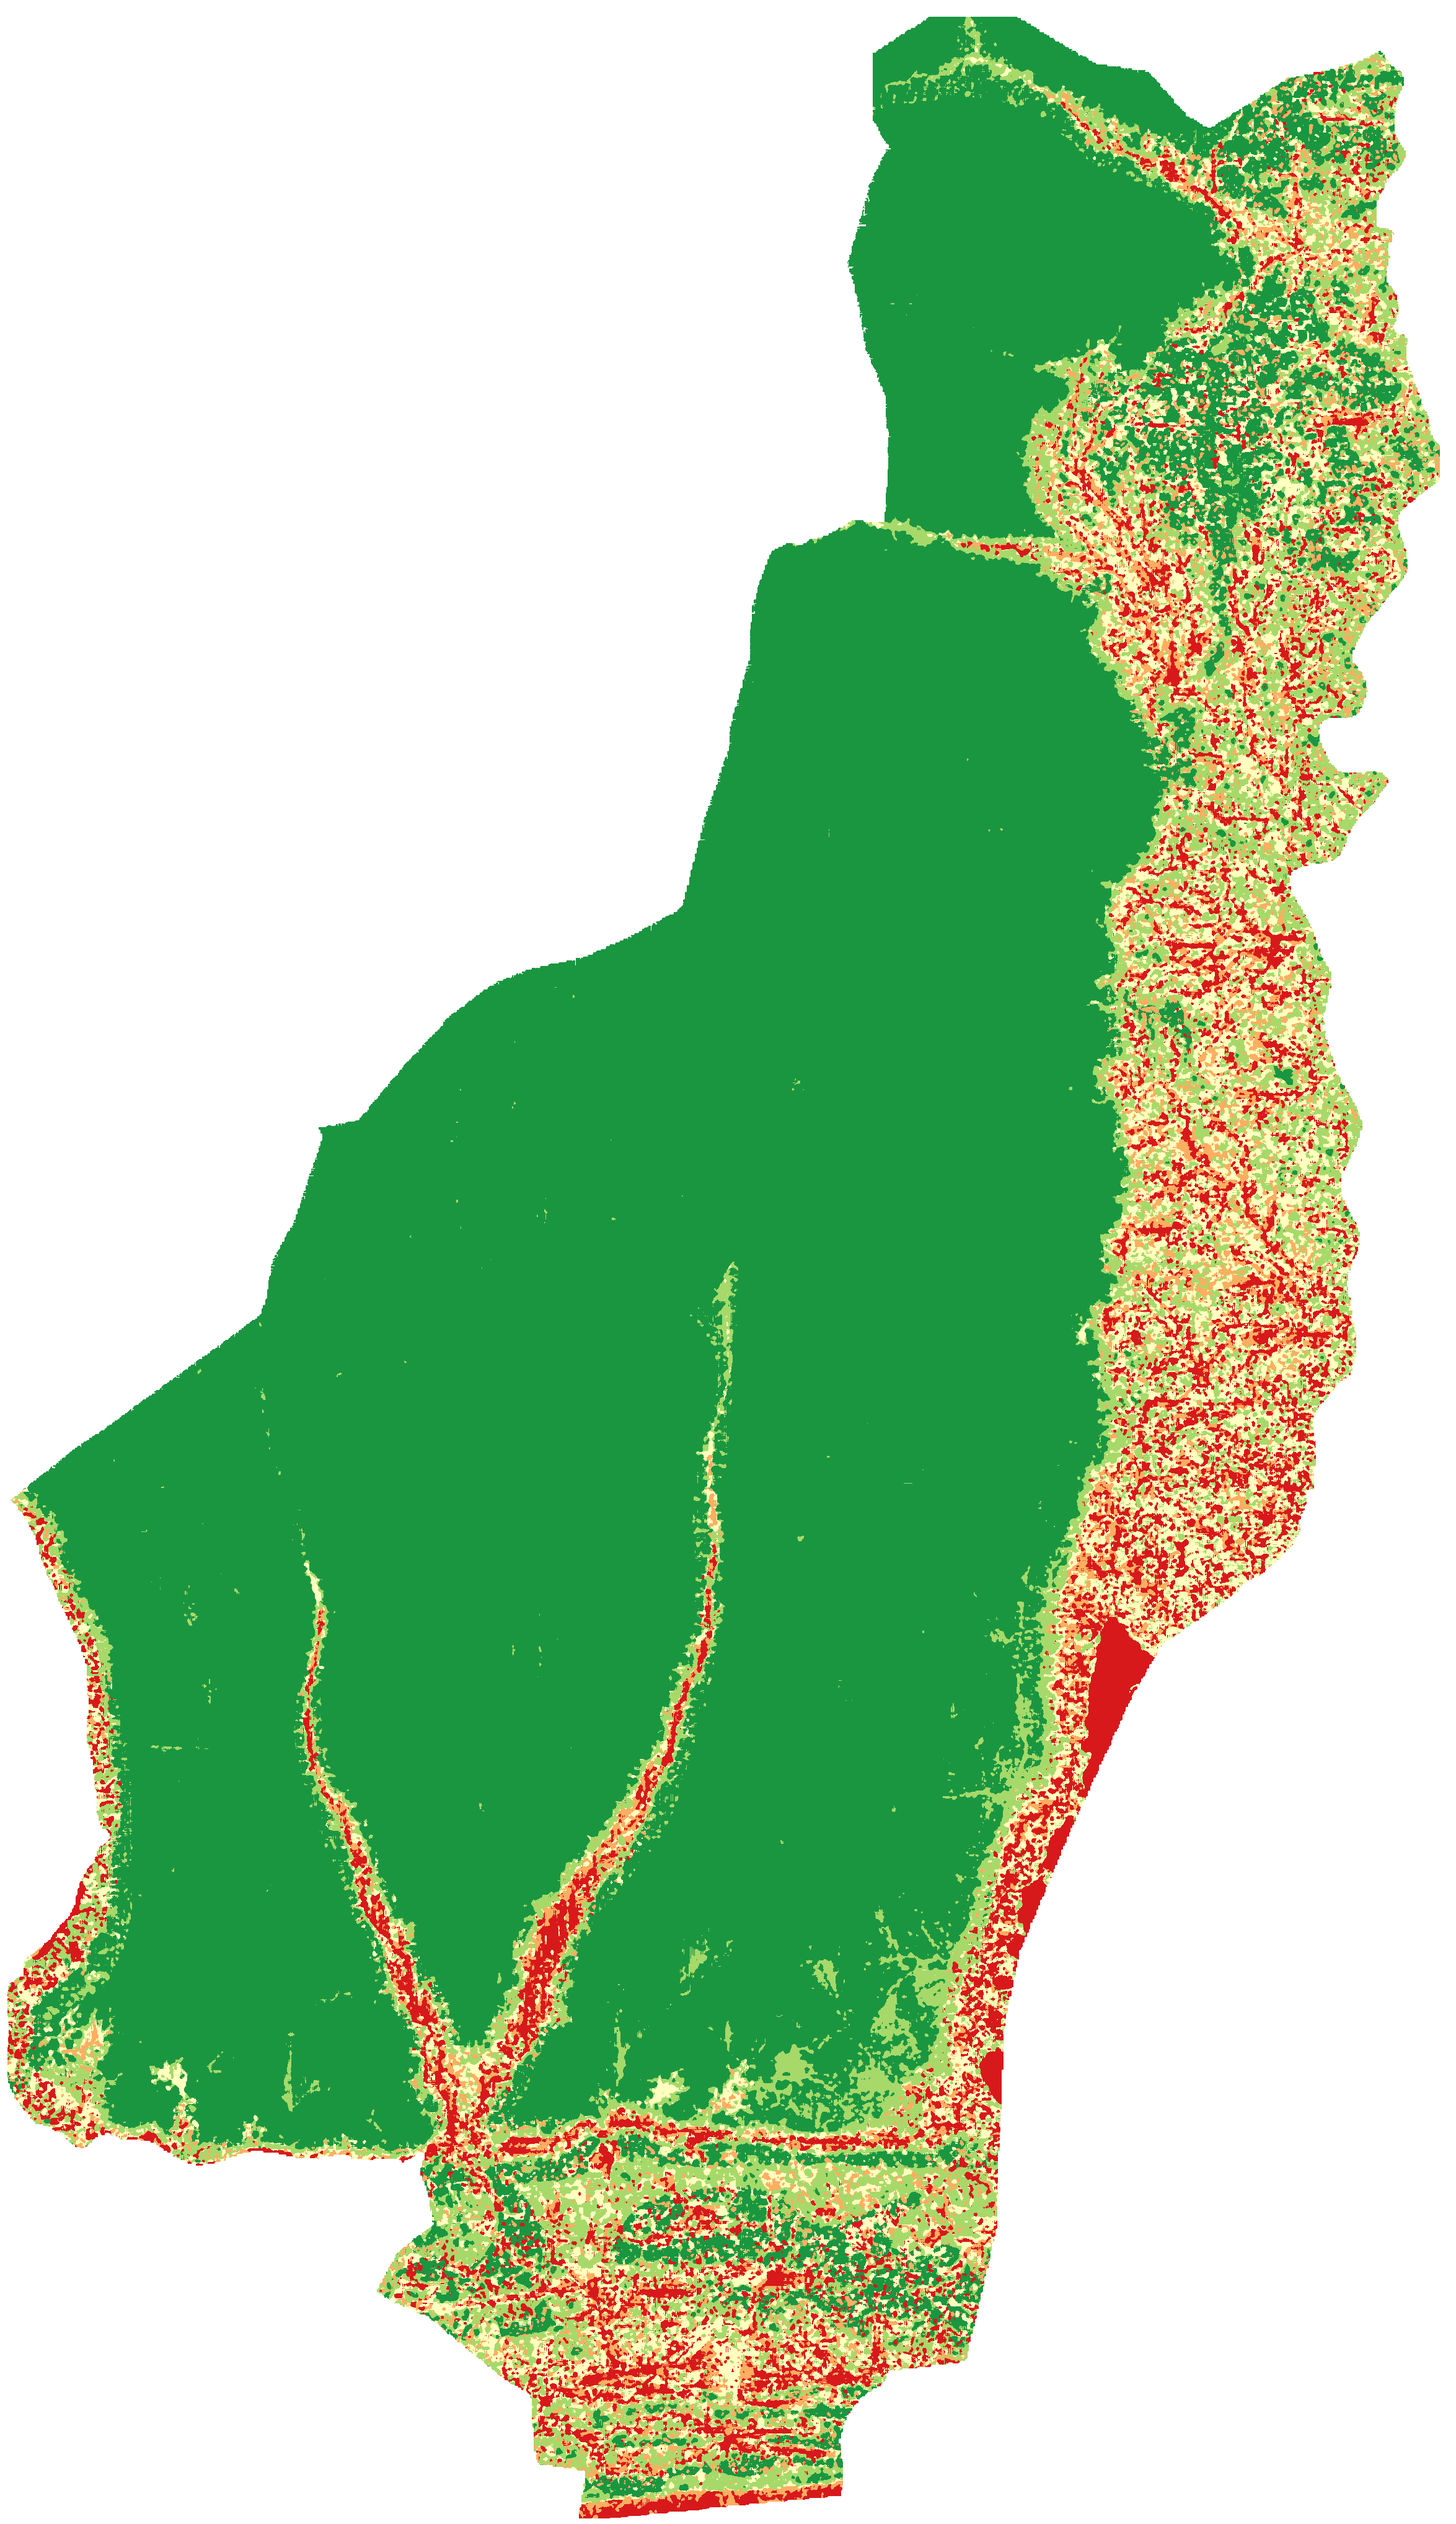
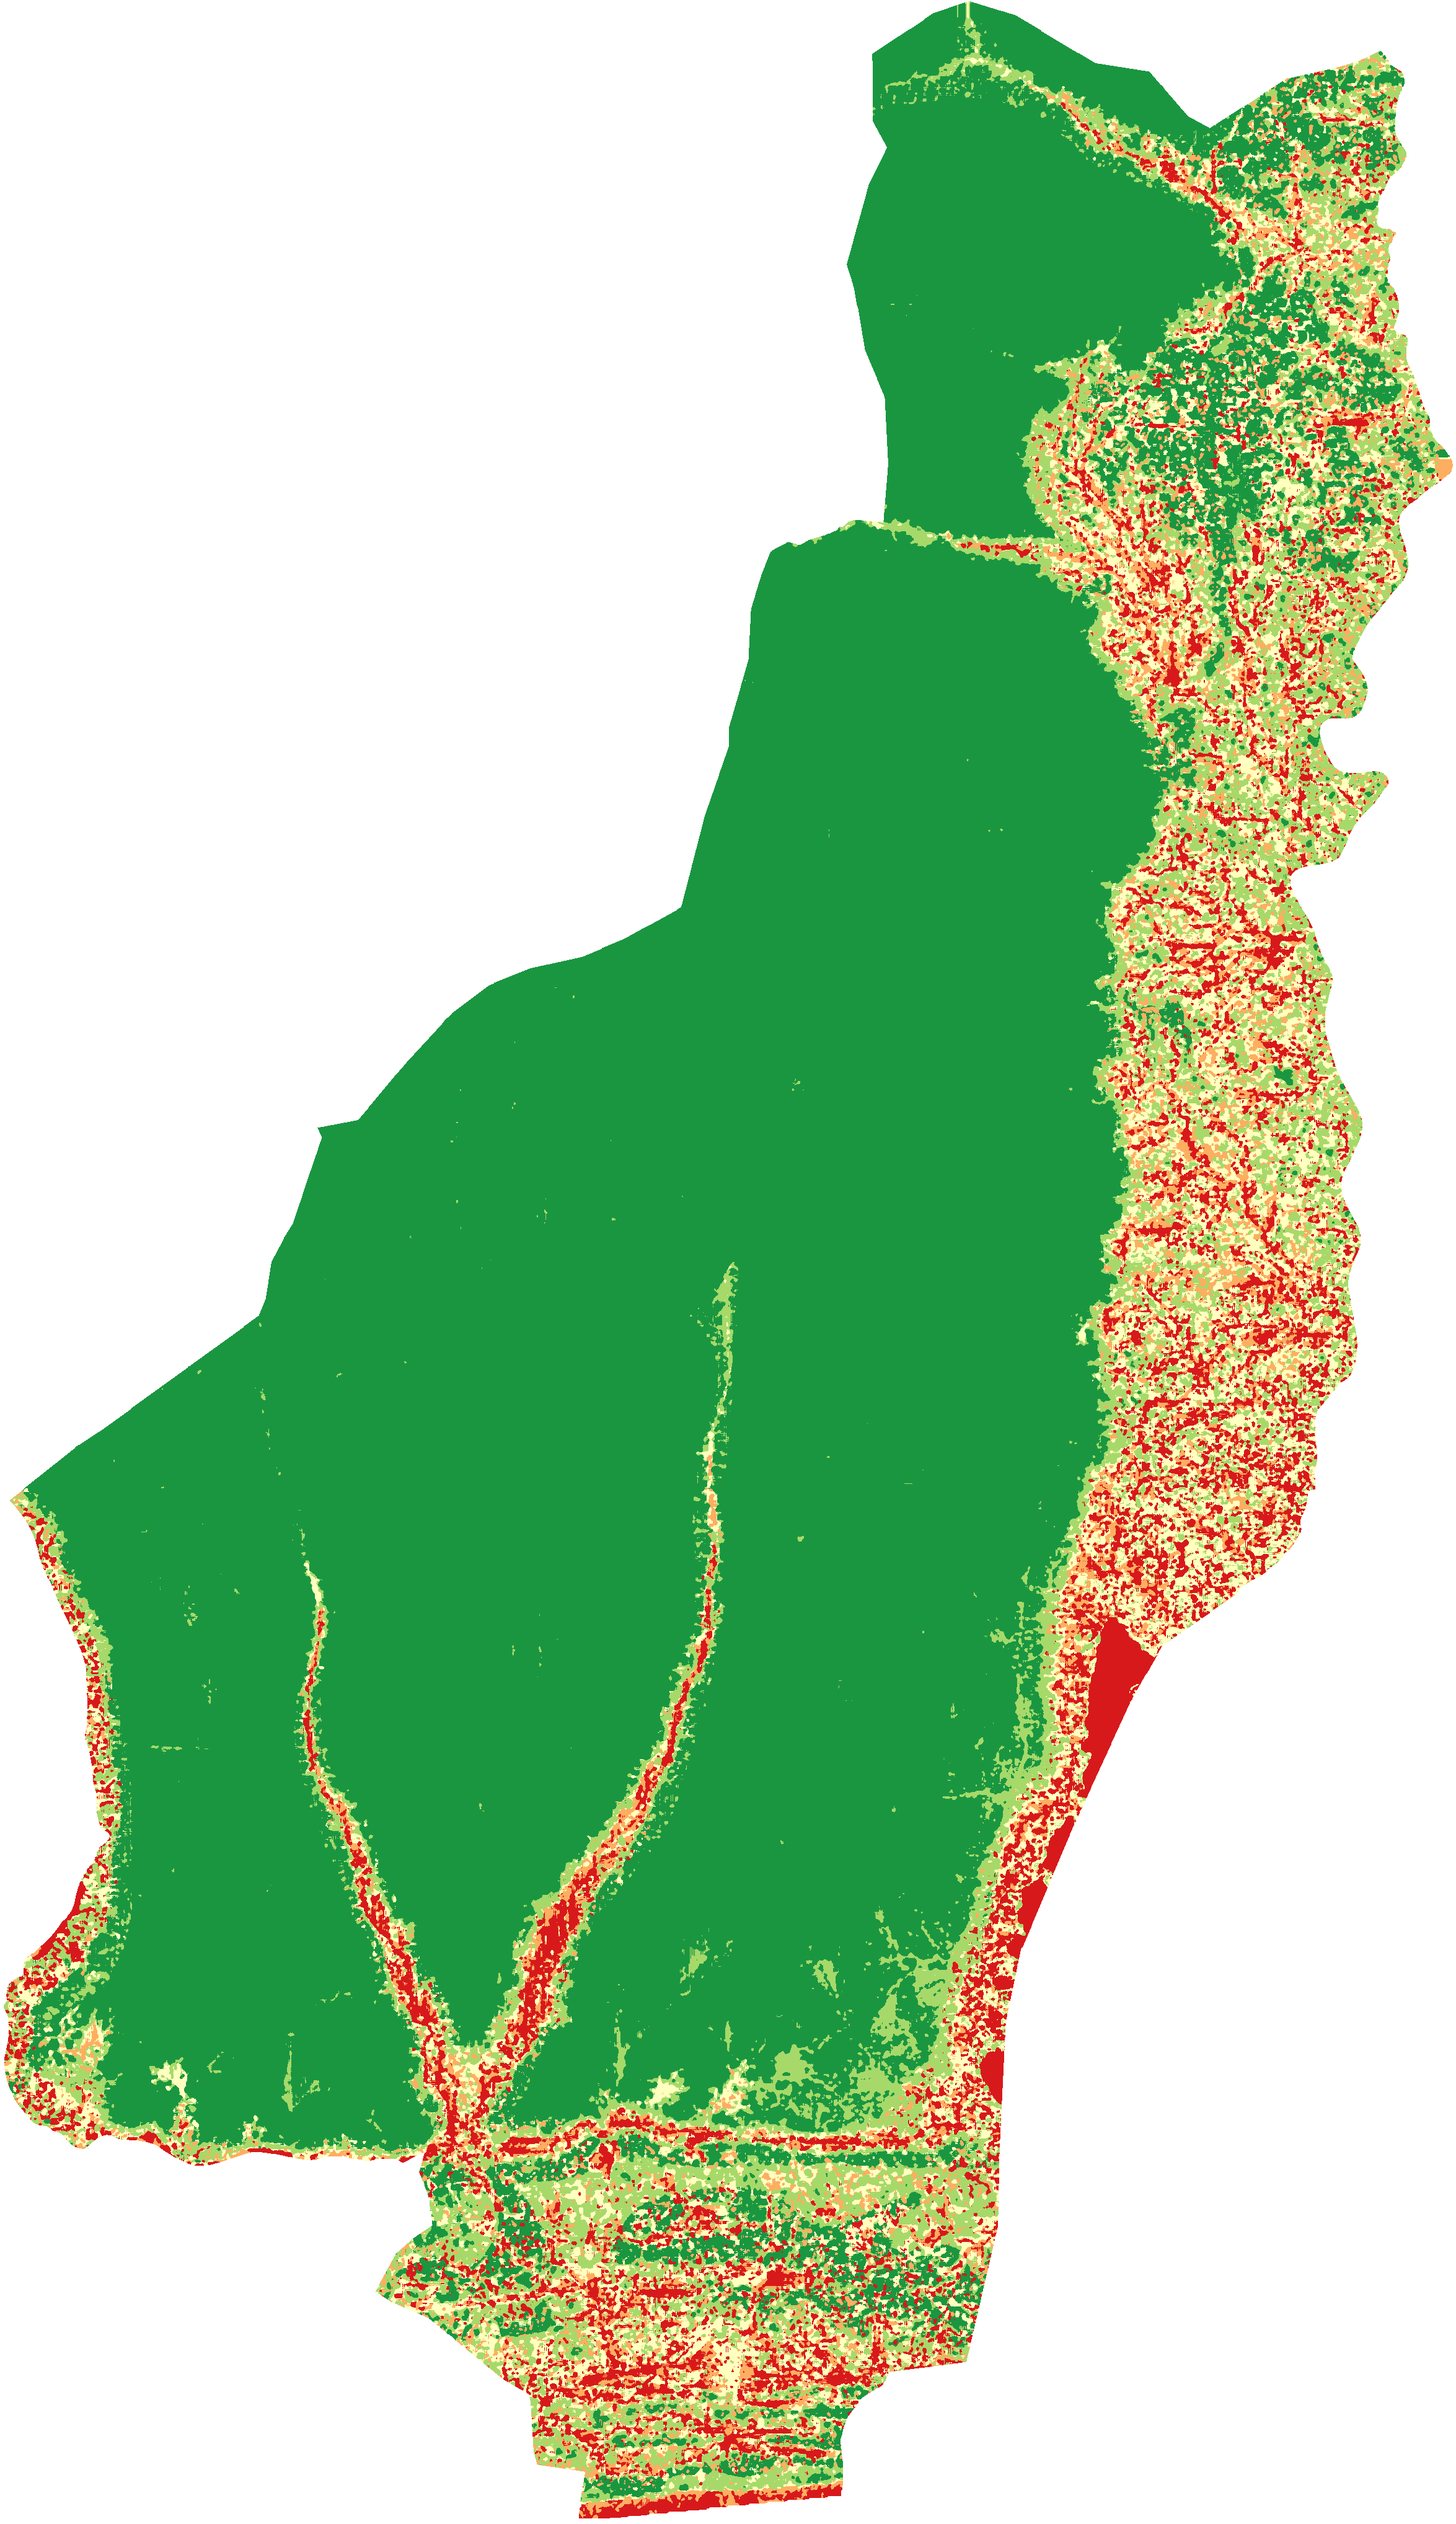
Add files via upload

diff --git a/app.py b/app.py
@@ -83,6 +83,11 @@ for k, (nom, coul) in pal.items():
     st.sidebar.markdown(
         f"<span style='display:inline-block;width:14px;height:14px;background:{coul};"
         f"border:1px solid #555;margin-right:6px'></span>{nom}", unsafe_allow_html=True)
+if meta.get("gris_affiche") and meta.get("non_modelise_ha", 0) > 0:
+    st.sidebar.markdown(
+        "<span style='display:inline-block;width:14px;height:14px;background:#bdbdbd;"
+        "border:1px solid #555;margin-right:6px'></span>Sans données (non modélisé)",
+        unsafe_allow_html=True)
 if annee == "2040":
     st.sidebar.caption("2040 : scénario tendanciel (projection de l'occupation du sol), "
                        "pas une observation.")
@@ -197,6 +202,9 @@ with onglet_info:
   (TerrSet). Les autres facteurs restent ceux de 2025.
 - **Occupation du sol** : classification Random Forest d'images Sentinel-2 (2025) et
   projection 2040.
+- La partie nord de la commune, située hors de l'emprise des variables du modèle,
+  n'a pas été prédite : elle est complétée à l'affichage par la classe du pixel
+  prédit le plus proche et n'entre pas dans les superficies.
 - Cartes affichées après un filtre majoritaire (statistique focale, fenêtre de 5 × 5
   pixels, soit 50 m) qui supprime les pixels isolés. Les fichiers téléchargeables sont
   en plus vectorisés et simplifiés (taches < 2 ha supprimées). Les superficies et
